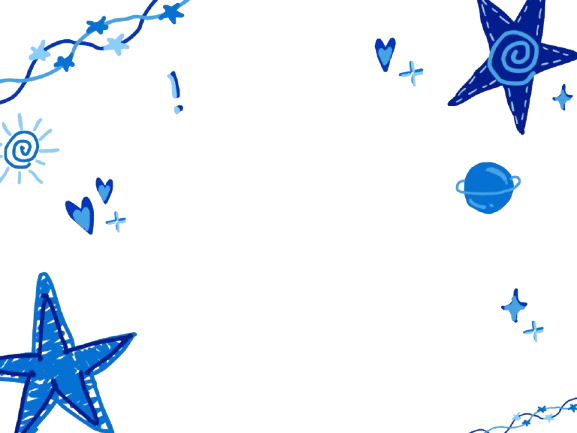
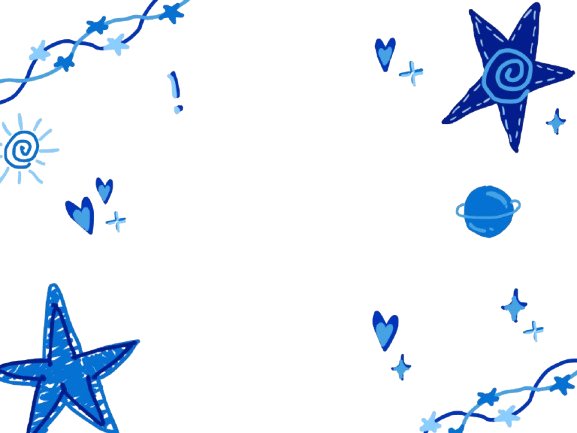
Overlay Filter Added

diff --git a/src/pages/Camera.jsx b/src/pages/Camera.jsx
@@ -5,6 +5,7 @@ import sparkleOverlay from '../assets/sparkle_overlay.png'
 // ── Template imports — needed to overlay on canvas ────────────
 import t1a from '../assets/template_1strip_a.png'
 import t1b from '../assets/template_1strip_b.png'
+import t1c from '../assets/template_1strip_c.png'
 import t2a from '../assets/template_2strip_a.png'
 import t2b from '../assets/template_2strip_b.png'
 import t2c from '../assets/template_2strip_c.png'
@@ -15,6 +16,7 @@ import t4a from '../assets/template_4strip_a.png'
 const TEMPLATE_ASSETS = {
   template_1strip_a: t1a,
   template_1strip_b: t1b,
+  template_1strip_c: t1c,
   template_2strip_a: t2a,
   template_2strip_b: t2b,
   template_2strip_c: t2c,
@@ -25,6 +27,7 @@ const TEMPLATE_ASSETS = {
 const TEMPLATE_CONFIGS = {
   template_1strip_a: { canvasWidth: 900, canvasHeight: 1100, slots: [{ x: 70, y: 80, width: 760, height: 760 }] },
   template_1strip_b: { canvasWidth: 900, canvasHeight: 1100, slots: [{ x: 70, y: 80, width: 760, height: 760 }] },
+  template_1strip_c: { canvasWidth: 900, canvasHeight: 1100, slots: [{ x: 70, y: 80, width: 760, height: 760 }] },
   template_2strip_a: { canvasWidth: 900, canvasHeight: 1600, slots: [{ x: 40, y: 50, width: 820, height: 600 }, { x: 40, y: 700, width: 820, height: 600 }] },
   template_2strip_b: { canvasWidth: 900, canvasHeight: 1600, slots: [{ x: 40, y: 50, width: 820, height: 600 }, { x: 40, y: 700, width: 820, height: 600 }] },
   template_2strip_c: { canvasWidth: 900, canvasHeight: 1600, slots: [{ x: 40, y: 50, width: 820, height: 600 }, { x: 40, y: 700, width: 820, height: 600 }] },
@@ -419,7 +422,7 @@ export default function Camera() {
       const res = await fetch('http://localhost:8000/apply-filter', {
         method: 'POST',
         headers: { 'Content-Type': 'application/json' },
-        body: JSON.stringify({ image: b64, filter, preview }),
+        body: JSON.stringify({ image: b64, filter, preview}),
         signal,
       })
       if (!res.ok) throw new Error(`Filter API ${res.status}`)

diff --git a/src/pages/Layout.jsx b/src/pages/Layout.jsx
@@ -4,6 +4,7 @@ import { playClick, playHover } from '../utils/sounds'
 
 import t1a from '../assets/template_1strip_a.png'
 import t1b from '../assets/template_1strip_b.png'
+import t1c from '../assets/template_1strip_c.png'
 import t2a from '../assets/template_2strip_a.png'
 import t2b from '../assets/template_2strip_b.png'
 import t2c from '../assets/template_2strip_c.png'
@@ -13,6 +14,7 @@ import t4a from '../assets/template_4strip_a.png'
 const TEMPLATES = [
   { id: 'template_1strip_a', label: 'Lace & Love',   shots: 1, file: t1a, canvasWidth: 900, canvasHeight: 1100, slots: [{ x: 70, y: 80, width: 760, height: 760 }] },
   { id: 'template_1strip_b', label: 'Solo Moment',   shots: 1, file: t1b, canvasWidth: 900, canvasHeight: 1100, slots: [{ x: 70, y: 80, width: 760, height: 760 }] },
+  { id: 'template_1strip_c', label: 'Sweetheart',    shots: 1, file: t1c, canvasWidth: 900, canvasHeight: 1100, slots: [{ x: 70, y: 80, width: 760, height: 760 }] },
   { id: 'template_2strip_a', label: 'Double Take',   shots: 2, file: t2a, canvasWidth: 900, canvasHeight: 1600, slots: [{ x: 40, y: 50, width: 820, height: 600 }, { x: 40, y: 700, width: 820, height: 600 }] },
   { id: 'template_2strip_b', label: 'Two of Us',     shots: 2, file: t2b, canvasWidth: 900, canvasHeight: 1600, slots: [{ x: 40, y: 50, width: 820, height: 600 }, { x: 40, y: 700, width: 820, height: 600 }] },
   { id: 'template_2strip_c', label: 'Duo Bloom',     shots: 2, file: t2c, canvasWidth: 900, canvasHeight: 1600, slots: [{ x: 40, y: 50, width: 820, height: 600 }, { x: 40, y: 700, width: 820, height: 600 }] },